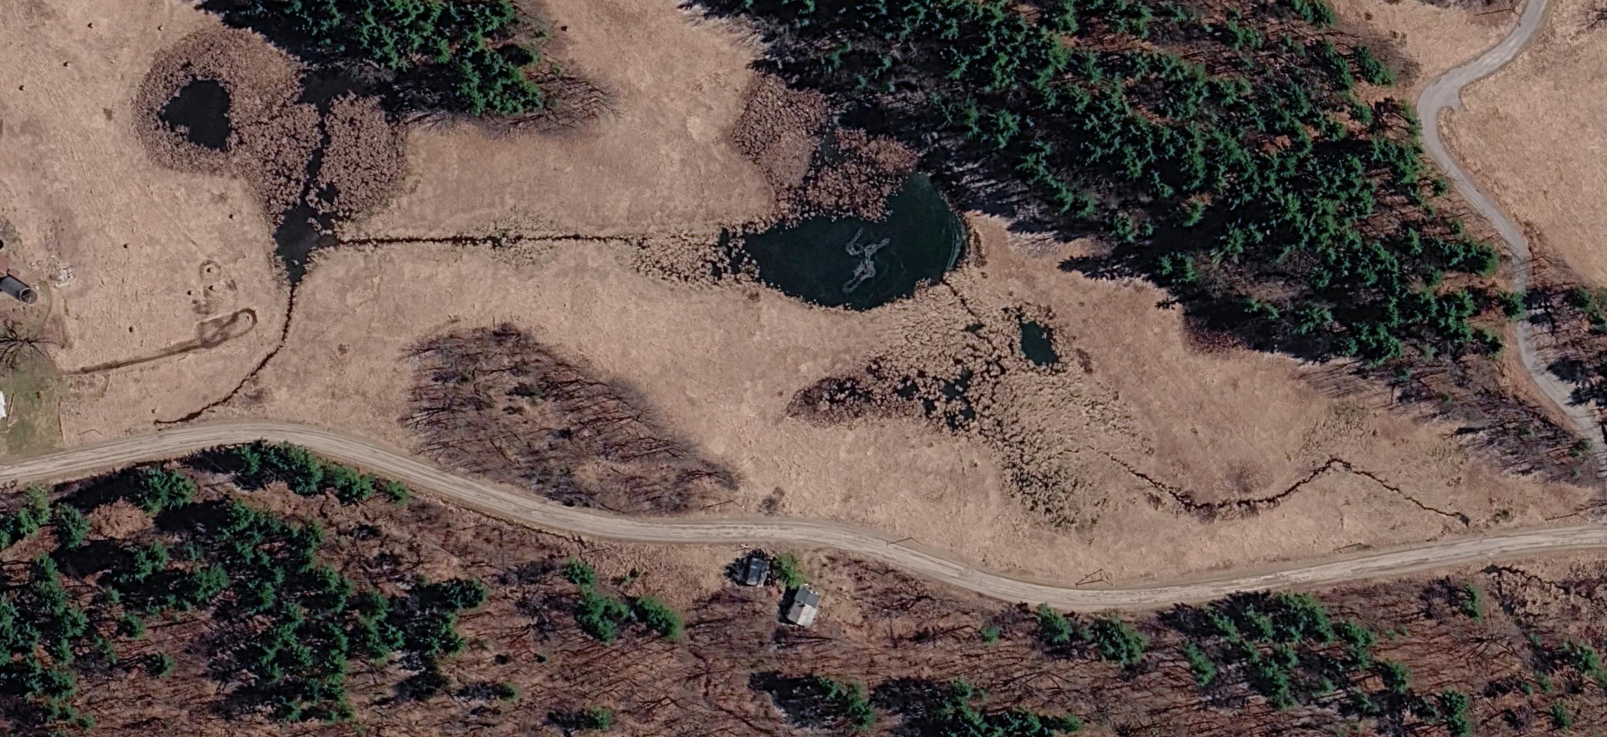
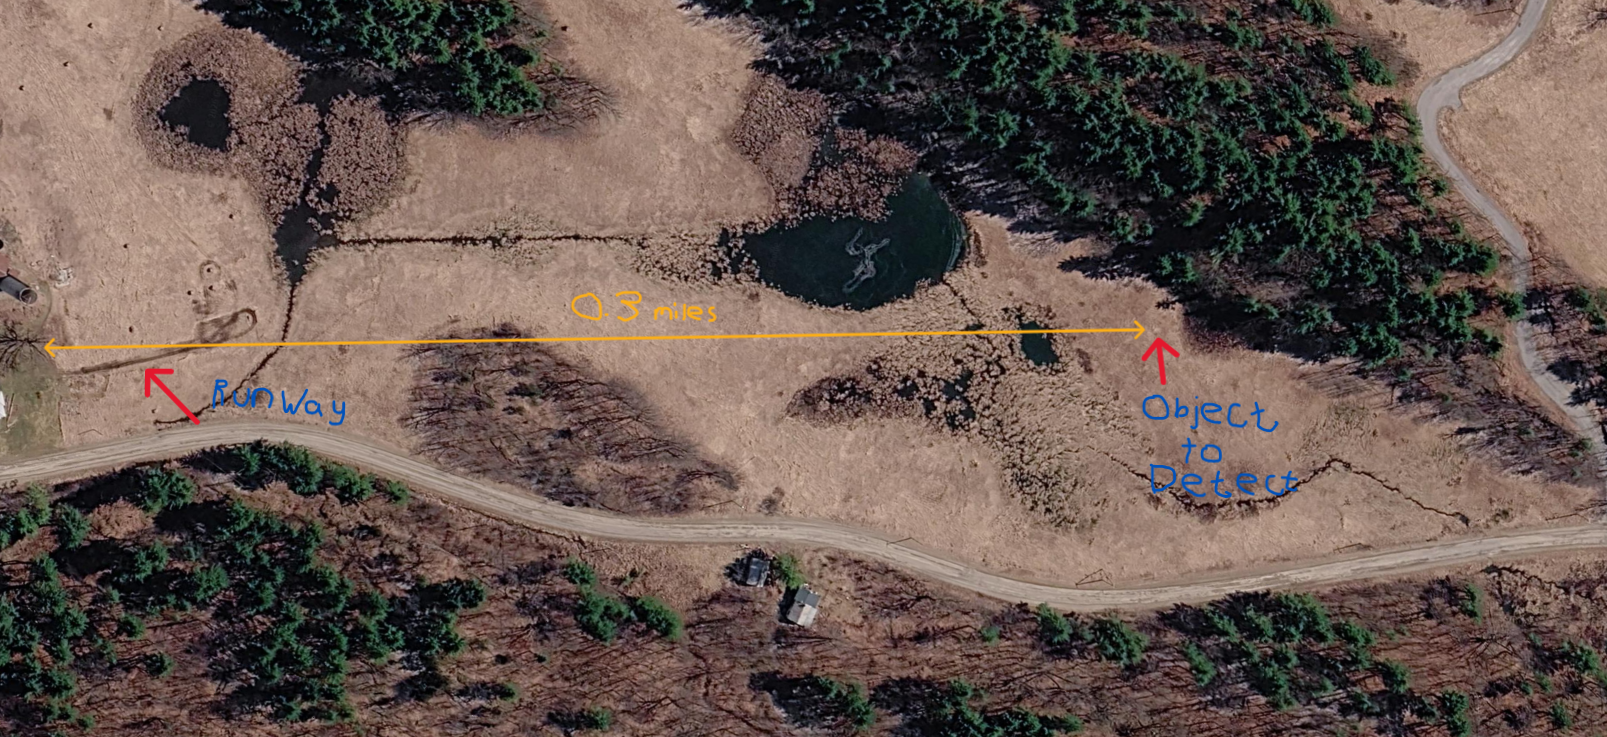
Added labels to image files (front view/aerial view operating environment)

diff --git a/docs/00_ConOps/operational_environment.md b/docs/00_ConOps/operational_environment.md
@@ -54,9 +54,11 @@ The AirSplitter propulsion and edge-computing arrays are powered by a central Li
 For ambient operations below 55°F, batteries must be stored inside insulated, heated transport containers prior to airframe insertion. Launching with a cold-soaked battery pack is a strict flight safety violation.
 
 ---
-
+## Operational Environment Diagram
 ![AirSplitter Operational Environment Diagram](assets/Operational_Environment_Diagram.png)
 
+## Aerial View of Operational Envrionment
 ![AirSplitter Operational Environment Aerial View](assets/true_aerial_view_operating_environment.png)
 
+## Front View of Operational Environment
 ![AirSplitter Operational Environment Front View](assets/true_front_view_operating_environment.png)